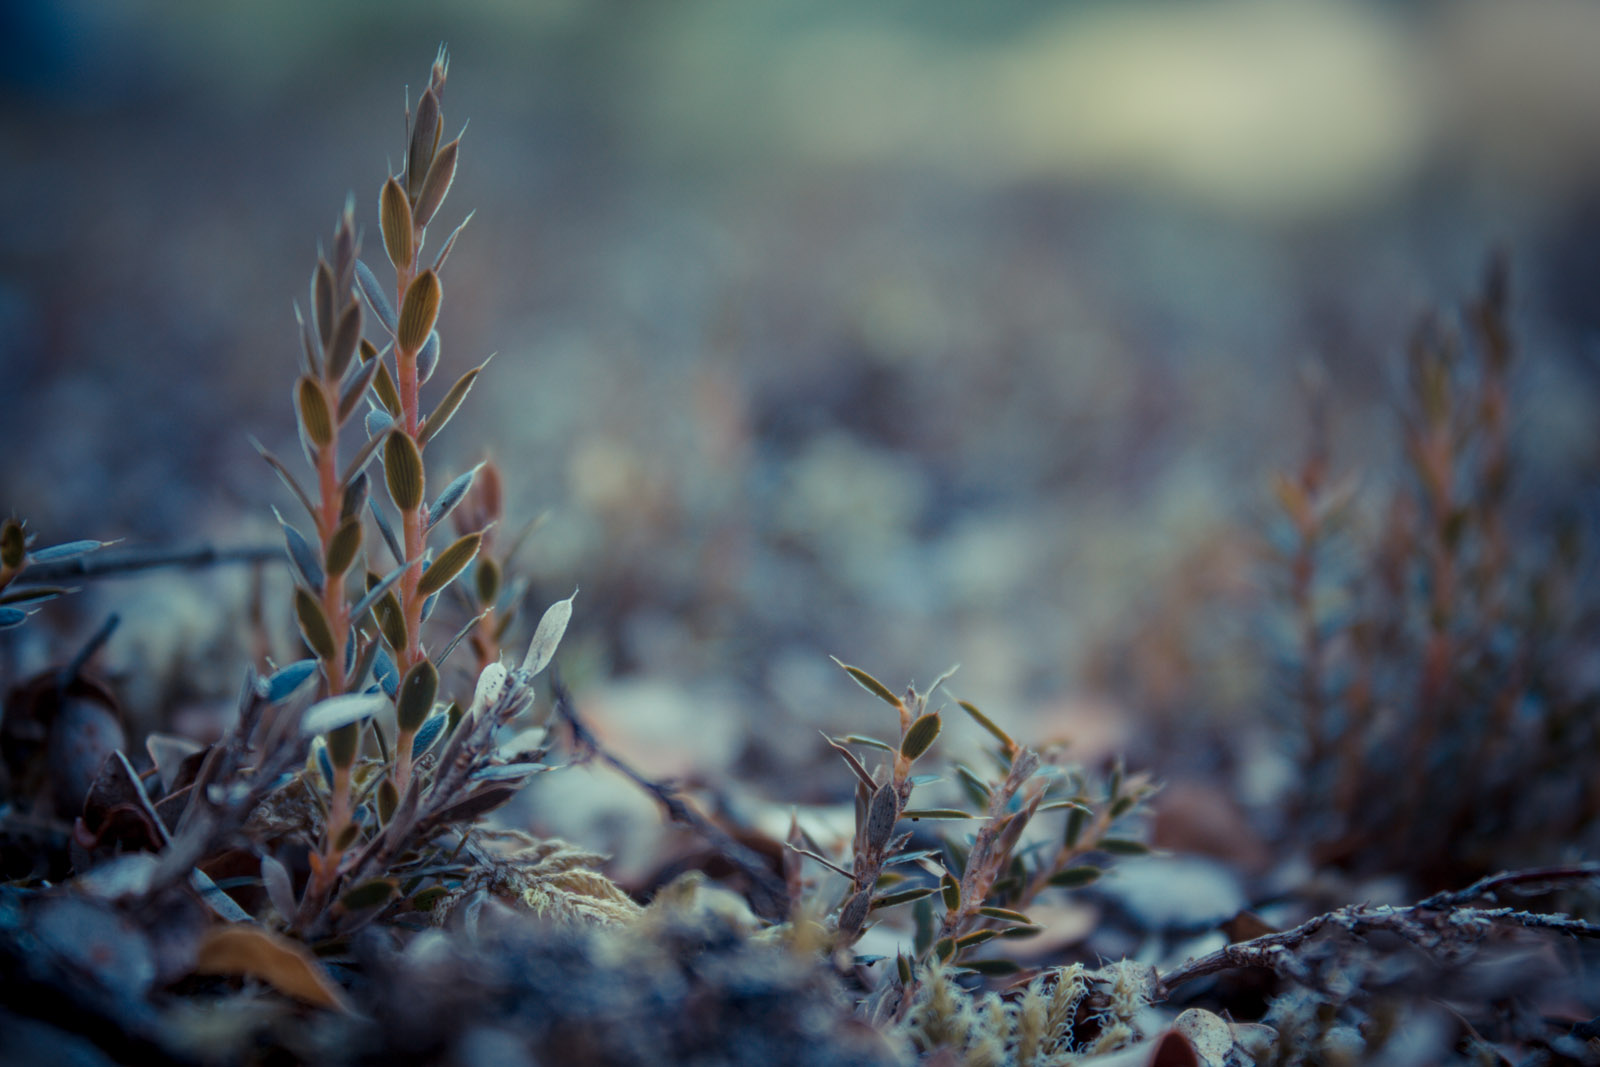
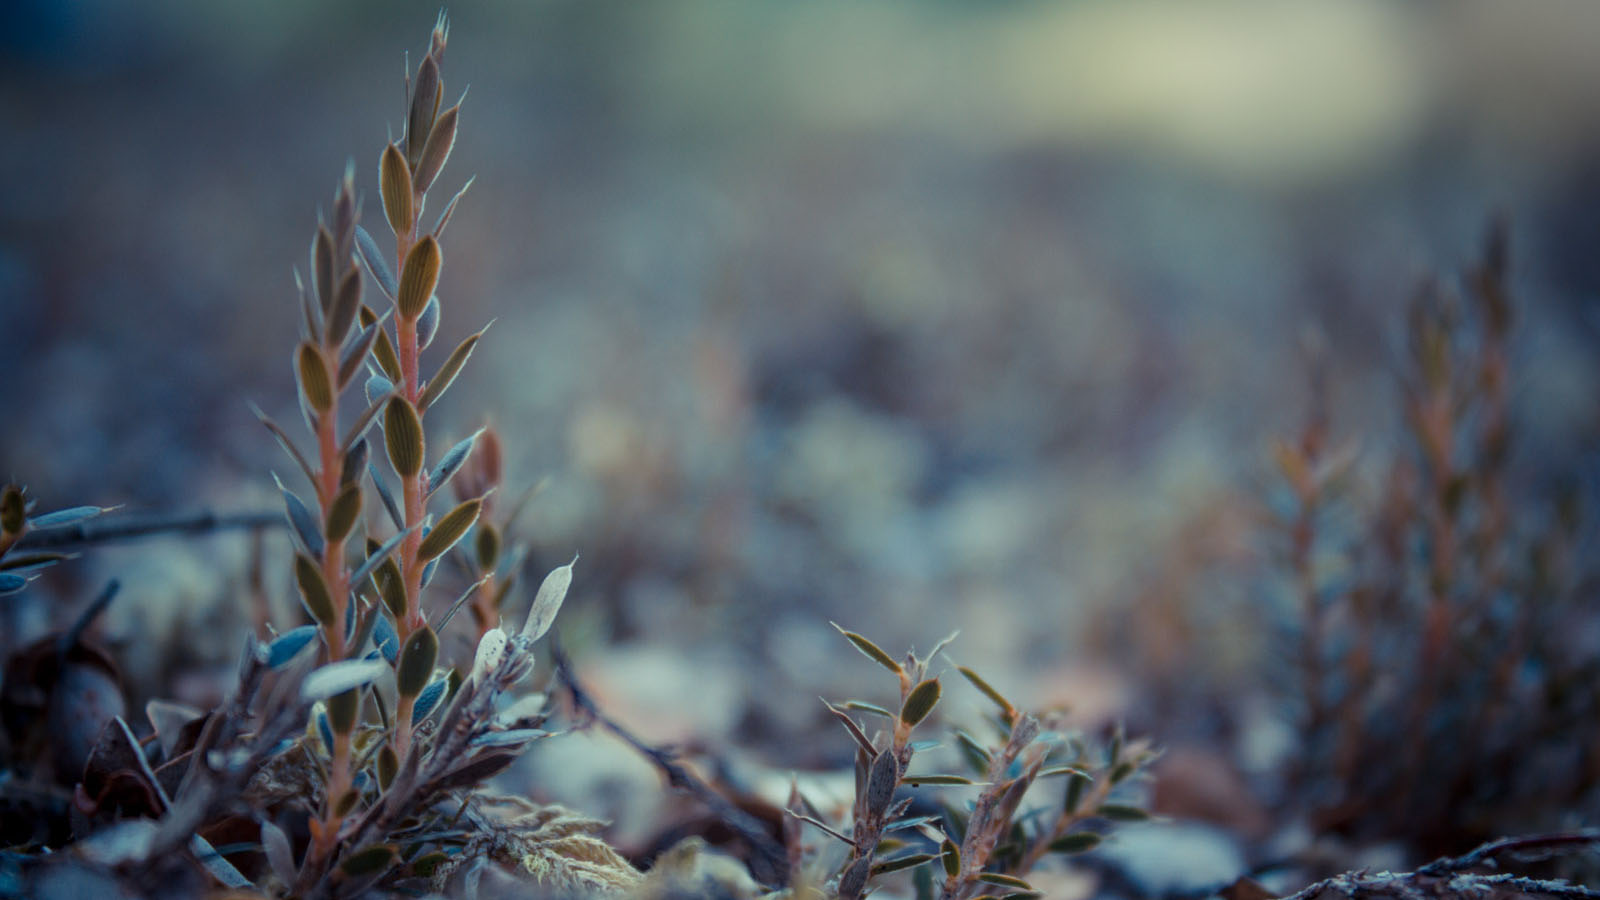
Cleaned up more CSS, cropped images to 16x9, removed parralax annimation, got rid of header nav on mobile version

diff --git a/index.html b/index.html
@@ -23,7 +23,6 @@
     <meta property='og:url' content='http://dempsas.co.nz' />
     <meta property='og:title' content='Adam Dempsey' />
     <meta property='og:type' content='article' />
-
     <link rel="stylesheet" type="text/css" href="stylesheet.css">
     <link rel="stylesheet" href="flexslider.css" type="text/css">
     <link href='http://fonts.googleapis.com/css?family=Roboto:300' rel='stylesheet' type='text/css'>
@@ -31,22 +30,6 @@
     <script src="http://code.jquery.com/jquery-migrate-1.2.1.min.js"></script>
     <script src="script.js"></script>
     <script src="jquery.flexslider.js"></script>
-    <script>
-        (function (i, s, o, g, r, a, m) {
-            i['GoogleAnalyticsObject'] = r;
-            i[r] = i[r] || function () {
-                (i[r].q = i[r].q || []).push(arguments)
-            }, i[r].l = 1 * new Date();
-            a = s.createElement(o),
-            m = s.getElementsByTagName(o)[0];
-            a.async = 1;
-            a.src = g;
-            m.parentNode.insertBefore(a, m)
-        })(window, document, 'script', '//www.google-analytics.com/analytics.js', 'ga');
-
-        ga('create', 'UA-50834756-1', 'dempsas.co.nz');
-        ga('send', 'pageview');
-    </script>
 
 </head>
 
@@ -54,7 +37,7 @@
     <!--Fixed header for navigation-->
     <header>
         <div class="headerContainer" id="headerContainer">
-            <span id="logo"><a class="icon-logo"></a></span>
+            <a title="back to top" id="logo" class="icon-logo"></a>
             <nav>
                 <ul id="mainNav">
                     <li><a class="nav" href="#section1">About Me</a>
@@ -67,10 +50,8 @@
             </nav>
         </div>
     </header>
-
     <!--Div that is the same height as the viewport for the welcome -->
-
-    <div id="bigFold" data-type="background" data-speed="2">
+    <div id="bigFold">
         <!--Container div for welcome text -->
         <div id="welcome">Welcome</div>
     </div>
@@ -141,25 +122,41 @@
     </div>
     <footer>
         <div class="innerContainer">
-                <p>Made in New Zealand from local and imported ingredients | <a href="mailto:dempsas@gmail.com?Subject=Website%20Enquiry" title="email me">Contant Me</a></p>
-                <div id="socialIcons">
-                    <ul>
-                        <li>
-                            <a class="icon-twitter" href="http://www.twitter.com/dempsas" title="Twitter"></a>
-                        </li>
-                        <li>
-                            <a class="icon-px" href="http://500px.com/dempsas" title="500px"></a>
-                        </li>
-                        <li>
-                            <a class="icon-instagram" href="" title="imstagram"></a>
-                        </li>
-                        <li>
-                            <a class="icon-linkedin" href="http://lnkd.in/6GDm5w" title="LinkedIn"></a>
-                        </li>
-                    </ul>
-                </div>
+            <p>Made in New Zealand from local and imported ingredients | <a href="mailto:dempsas@gmail.com?Subject=Website%20Enquiry" title="email me">Contact Me</a>
+            </p>
+            <div id="socialIcons">
+                <ul>
+                    <li>
+                        <a class="icon-twitter" href="http://www.twitter.com/dempsas" title="Twitter"></a>
+                    </li>
+                    <li>
+                        <a class="icon-px" href="http://500px.com/dempsas" title="500px"></a>
+                    </li>
+                    <li>
+                        <a class="icon-instagram" href="" title="imstagram"></a>
+                    </li>
+                    <li>
+                        <a class="icon-linkedin" href="http://lnkd.in/6GDm5w" title="LinkedIn"></a>
+                    </li>
+                </ul>
             </div>
+        </div>
     </footer>
+     <script>
+        (function (i, s, o, g, r, a, m) {
+            i['GoogleAnalyticsObject'] = r;
+            i[r] = i[r] || function () {
+                (i[r].q = i[r].q || []).push(arguments)
+            }, i[r].l = 1 * new Date();
+            a = s.createElement(o),
+            m = s.getElementsByTagName(o)[0];
+            a.async = 1;
+            a.src = g;
+            m.parentNode.insertBefore(a, m)
+        })(window, document, 'script', '//www.google-analytics.com/analytics.js', 'ga');
+        ga('create', 'UA-50834756-1', 'dempsas.co.nz');
+        ga('send', 'pageview');
+    </script>
 </body>
 
 </html>

diff --git a/stylesheet.css b/stylesheet.css
@@ -31,9 +31,6 @@ html,body,div,span,applet,object,iframe,h1,h2,h3,h4,h5,h6,p,blockquote,pre,a,abb
 	-webkit-font-smoothing: antialiased;
 	-moz-osx-font-smoothing: grayscale;
 }
-.icon-logotest2:before {
-	content: "\e604";
-}
 .icon-twitter:before {
 	content: "\e600";
 }
@@ -49,7 +46,6 @@ html,body,div,span,applet,object,iframe,h1,h2,h3,h4,h5,h6,p,blockquote,pre,a,abb
 .icon-logo:before{
     content: "\e604";
 }
-
 /* Fonts and some typography layout */
 body {
     background-color: #ffffff;
@@ -65,7 +61,7 @@ p {
     display: inline-block;
 }
 p a {
-    color: #;
+    color: #0268A0;
     text-decoration: none;
     transition: all 0.4s ease;
 }
@@ -83,14 +79,14 @@ h2 {
     font-size: 0.7em;
 }
 footer p {
-    margin: 95px 0 0 0;
+    margin: 70px 0 0 0;
     width: 100%;
     color: #ececec;
     font-size: 0.6em;
     text-align: center;
 }
 footer p a{
-    color: #
+    color: #60B6E2
 }
 /* Layout and design */
 .container {
@@ -106,8 +102,7 @@ footer p a{
     margin: auto;
 }
 header {
-    background-color: whitesmoke;
-    opacity: 0.7;
+    background-color: rgba(255, 255, 255, 0.5);
     width: 100%;
     height: auto;
     float: left;
@@ -123,7 +118,22 @@ header {
 #logo{
     font-size: 34px;
     float: left;
-    padding: 5px
+    padding: 5px;
+    cursor: pointer;
+    -webkit-transition-duration: 1s;
+    -moz-transition-duration: 1s;
+    -o-transition-duration: 1s;
+    transition-duration: 1s;
+    -webkit-transition-property: -webkit-transform;
+    -moz-transition-property: -moz-transform;
+    -o-transition-property: -o-transform;
+    transition-property: transform;
+    overflow:hidden;
+}
+#logo:hover{
+ -webkit-transform:rotate(360deg);
+    -moz-transform:rotate(360deg);
+    -o-transform:rotate(360deg); 
 }
 nav{
     float: right;
@@ -151,7 +161,6 @@ nav ul li a:hover {
     -ms-transition: color .2s ease-out, background 1s ease-in;
     -moz-transition: color .2s ease-out, background 1s ease-in;
     -webkit-transition: color .2s ease-out, background 1s ease-in;
-    /* ...and now override with proper CSS property */
     transition: color .2s ease-out, background 1s ease-in;
 }
 #bigFold {
@@ -193,7 +202,6 @@ nav ul li a:hover {
     margin: 70px auto 70px auto;
 }
 #section1 .innerContainer .textContainer{
-    width: 80%;
     margin: 20px auto 50px auto;
     text-align: center;
 }
@@ -267,14 +275,11 @@ footer {
     position: relative;
     float: left;
 }
-#socialIcons li ul {
-    display: none;
-}
 #socialIcons ul li a {
     display: block;
     text-decoration: none;
-    padding: 20px 0px 10px 10px;
-    color: #707070;
+    padding: 10px 5px 10px 5px;
+    color: #CACACA;
     margin-left: 1px;
     height: auto;
     width: 30px;
@@ -297,19 +302,21 @@ footer {
     Responsive layout < 768px Switch to mobile layout
 */
 @media (max-width: 768px) {
-    header {
-        opacity: 1;
-    }
     body {
         font-size: 1.2em;
-    }
-    #bigFold {
-        height: 200px;
     }
     .headerContainer {
         width: 100%;
         float: left;
-        display: none;
+    }
+    #bigFold {
+        height: 200px;
+    }
+    #logo{
+     margin-left: 10px; 
+    }
+    nav{
+     display: none;   
     }
     nav ul {
         padding: 15px;
@@ -318,9 +325,6 @@ footer {
     }
     nav ul li {
         float: none;
-    }
-    nav li ul {
-        display: none;
     }
     nav ul li a {
         display: block;
@@ -331,16 +335,13 @@ footer {
         width: 100px;
         text-align: left;
     }
-    #menu {
-        display: block;
-    }
     .innerContainer {
         width: 90%;
     }
     .textContainer {
         width: 100%;
         float: left;
-        margin: 10px auto 10px auto;
+        margin: 30px auto 30px auto;
     }
     #myFace {
         float: none;
@@ -370,14 +371,18 @@ footer {
     }
     #welcome {
         width: auto;
-        top: 45%;
+        top: 50%;
         position: relative;
     }
     footer {
         height: auto;
     }
-    .footerText {
-        float: left;
-        margin: 15px 0 5px 0;
+    
+    footer p{
+        margin: 30px auto 0 auto;
     }
+    #socialIcons ul li a {
+        padding-bottom: 20px;
+    }
+    
 }

diff --git a/script.js b/script.js
@@ -1,53 +1,39 @@
 /*
  * Some jQuery for website niceness
- * Parallax header, Mobile nav and one page scroll navigation. 
+ * Mobile nav and one page scroll navigation.
  */
-$(document).ready(function() {
-    if ($(window).width() > 768) {
-        $('div[data-type="background"]').each(function() {
-            var $bgobj = $(this); // assigning the object
-
-            $(window).scroll(function() {
-                var yPos = -($(window).scrollTop() / $bgobj.data('speed'));
-
-                // Put together our final background position
-                var coords = '50% ' + yPos + 'px';
-
-                // Move the background
-                $bgobj.css({backgroundPosition: coords});
-            });
-        });
-    }
-
-    $('a[href^="#"]').on('click', function(e) {
+$(document).ready(function () {
+    $("#logo").click(function () {
+        $("html, body").animate({
+            scrollTop: 0
+        }, 1000);
+    });
+    $('a[href^="#"]').on('click', function (e) {
         e.preventDefault();
 
         var target = this.hash,
-                $target = $(target);
+            $target = $(target);
 
         $('html, body').stop().animate({
             'scrollTop': $target.offset().top
-        }, 900, 'swing', function() {
+        }, 900, 'swing', function () {
             window.location.hash = target;
         });
     });
     if ($(window).width() < 768) {
-        $('.nav').click(function() {
+        $('.nav').click(function () {
             $("#headerContainer").slideUp('slow');
         });
-    }
-    else {
-    }
+    } else {}
     $('#welcome').delay('500').fadeIn('3000');
-    $("#L").click(function() {
+    $("#L").click(function () {
         if ($("#headerContainer").is(":hidden")) {
             $("#headerContainer").slideDown("slow");
         } else {
             $("#headerContainer").slideUp('slow');
         }
     });
-    
-    $(window).load(function() {
-    $('.flexslider').flexslider();
-  });
+    $(window).load(function () {
+        $('.flexslider').flexslider();
+    });
 });

diff --git a/README.md b/README.md
@@ -3,4 +3,5 @@
 ##Simple one page layout with a fixed header for jquery navigation
 
 Colors and content and easily be swapped for template to be reused.
+
 ========
